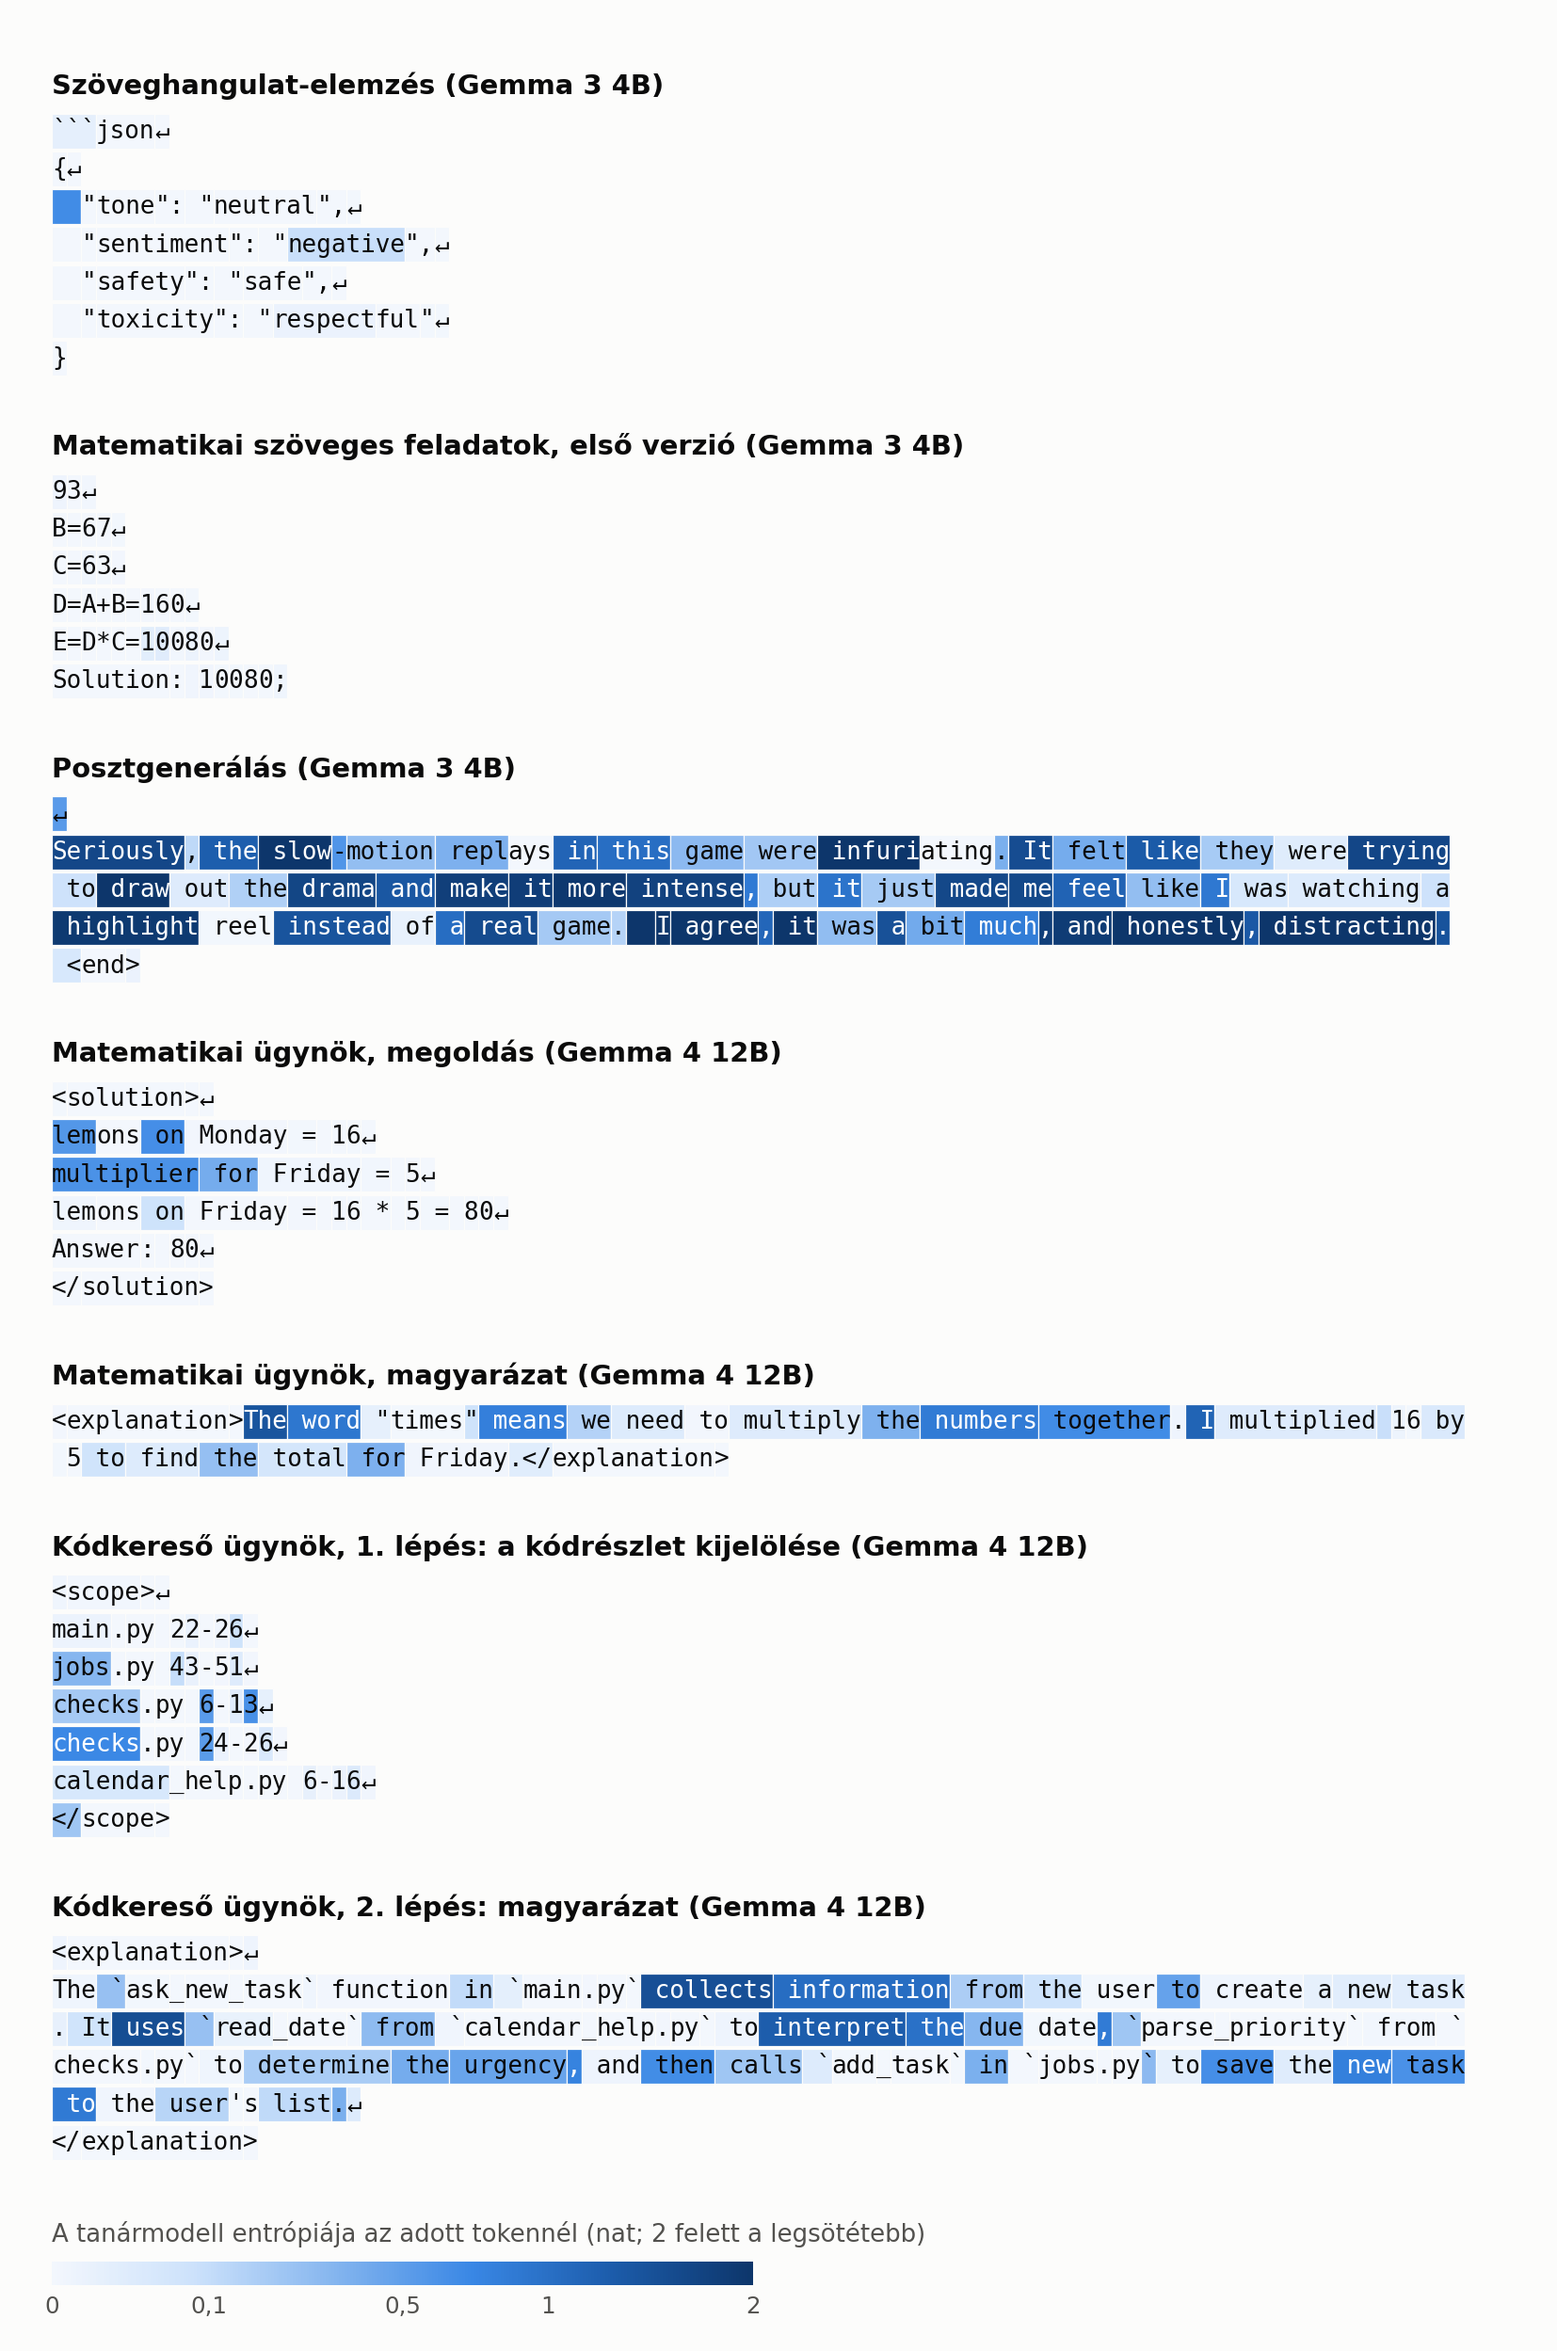
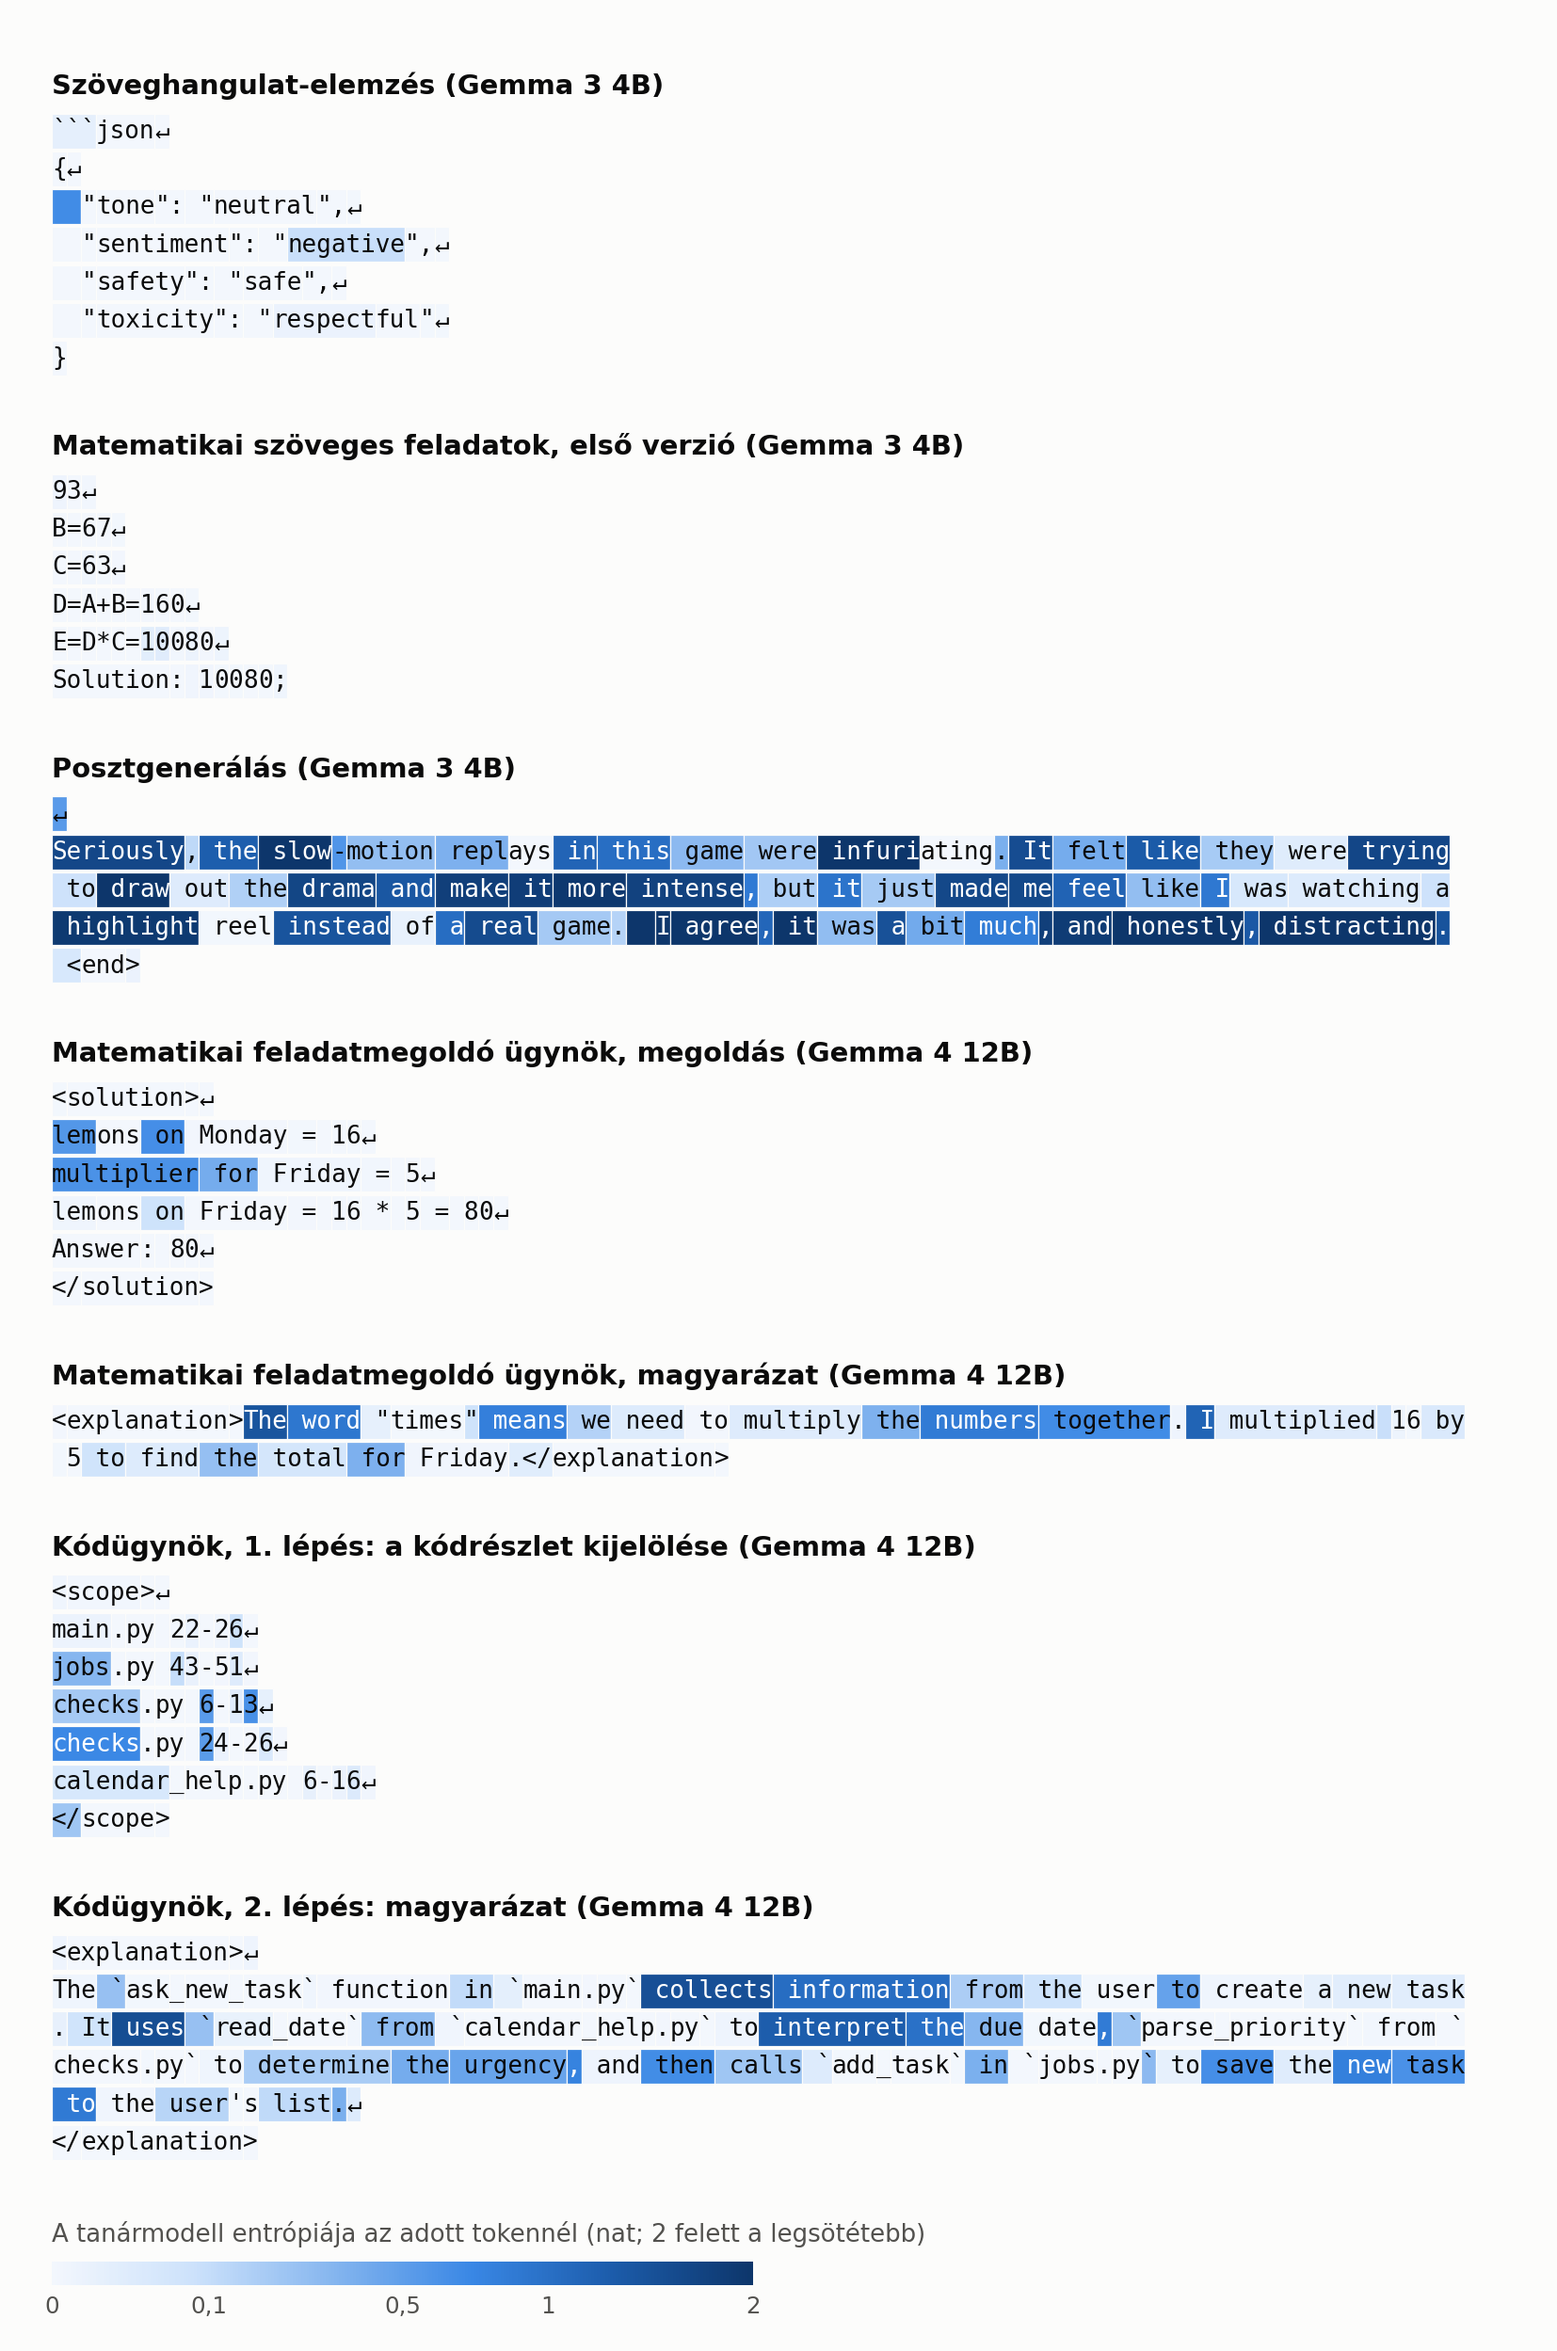
Figure 12 (thesis figure 2.1): agent names as in the thesis (matematikai feladatmegoldó ügynök, kódügynök)

diff --git a/thesis_work/grafikonok/plot_12_token_entropy.py b/thesis_work/grafikonok/plot_12_token_entropy.py
@@ -18,10 +18,10 @@ PANELS = [
     ("reddit", "Szöveghangulat-elemzés (Gemma 3 4B)"),
     ("math_v1", "Matematikai szöveges feladatok, első verzió (Gemma 3 4B)"),
     ("post_generation", "Posztgenerálás (Gemma 3 4B)"),
-    ("tutor_solution", "Matematikai ügynök, megoldás (Gemma 4 12B)"),
-    ("tutor_explanation", "Matematikai ügynök, magyarázat (Gemma 4 12B)"),
-    ("code_scope", "Kódkereső ügynök, 1. lépés: a kódrészlet kijelölése (Gemma 4 12B)"),
-    ("code_explanation", "Kódkereső ügynök, 2. lépés: magyarázat (Gemma 4 12B)"),
+    ("tutor_solution", "Matematikai feladatmegoldó ügynök, megoldás (Gemma 4 12B)"),
+    ("tutor_explanation", "Matematikai feladatmegoldó ügynök, magyarázat (Gemma 4 12B)"),
+    ("code_scope", "Kódügynök, 1. lépés: a kódrészlet kijelölése (Gemma 4 12B)"),
+    ("code_explanation", "Kódügynök, 2. lépés: magyarázat (Gemma 4 12B)"),
 ]
 SURFACE = "#fcfcfb"
 TEXT_PRIMARY = "#0b0b0b"
